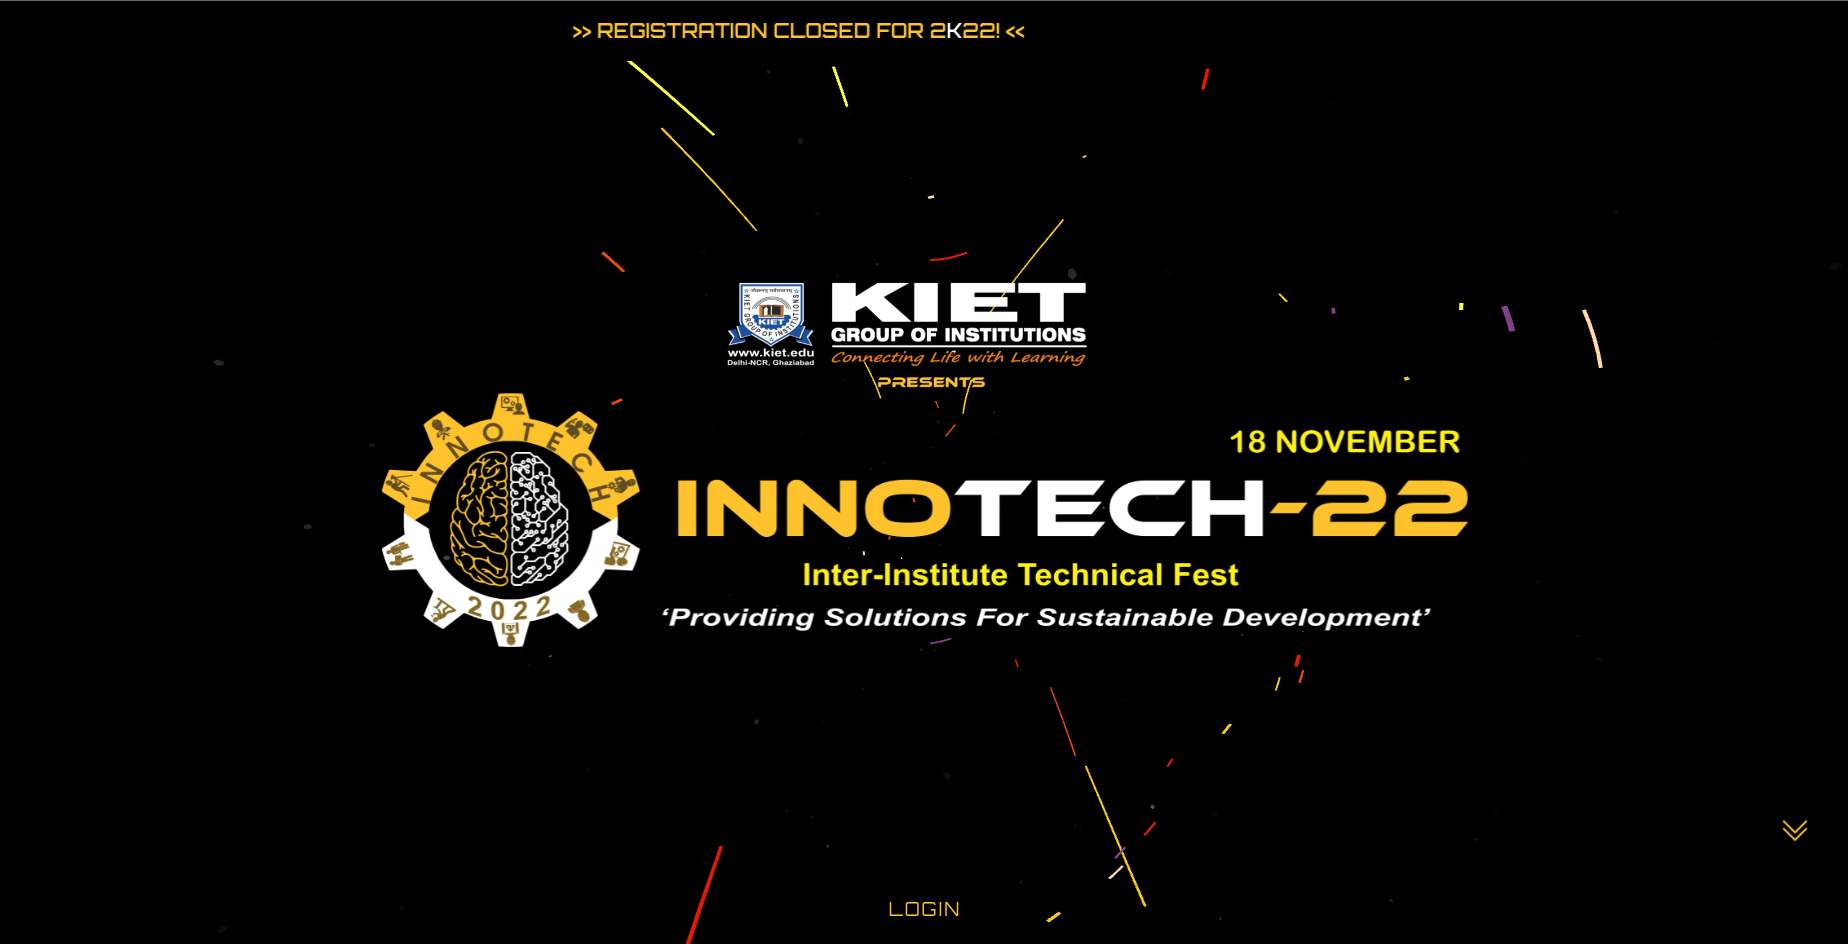
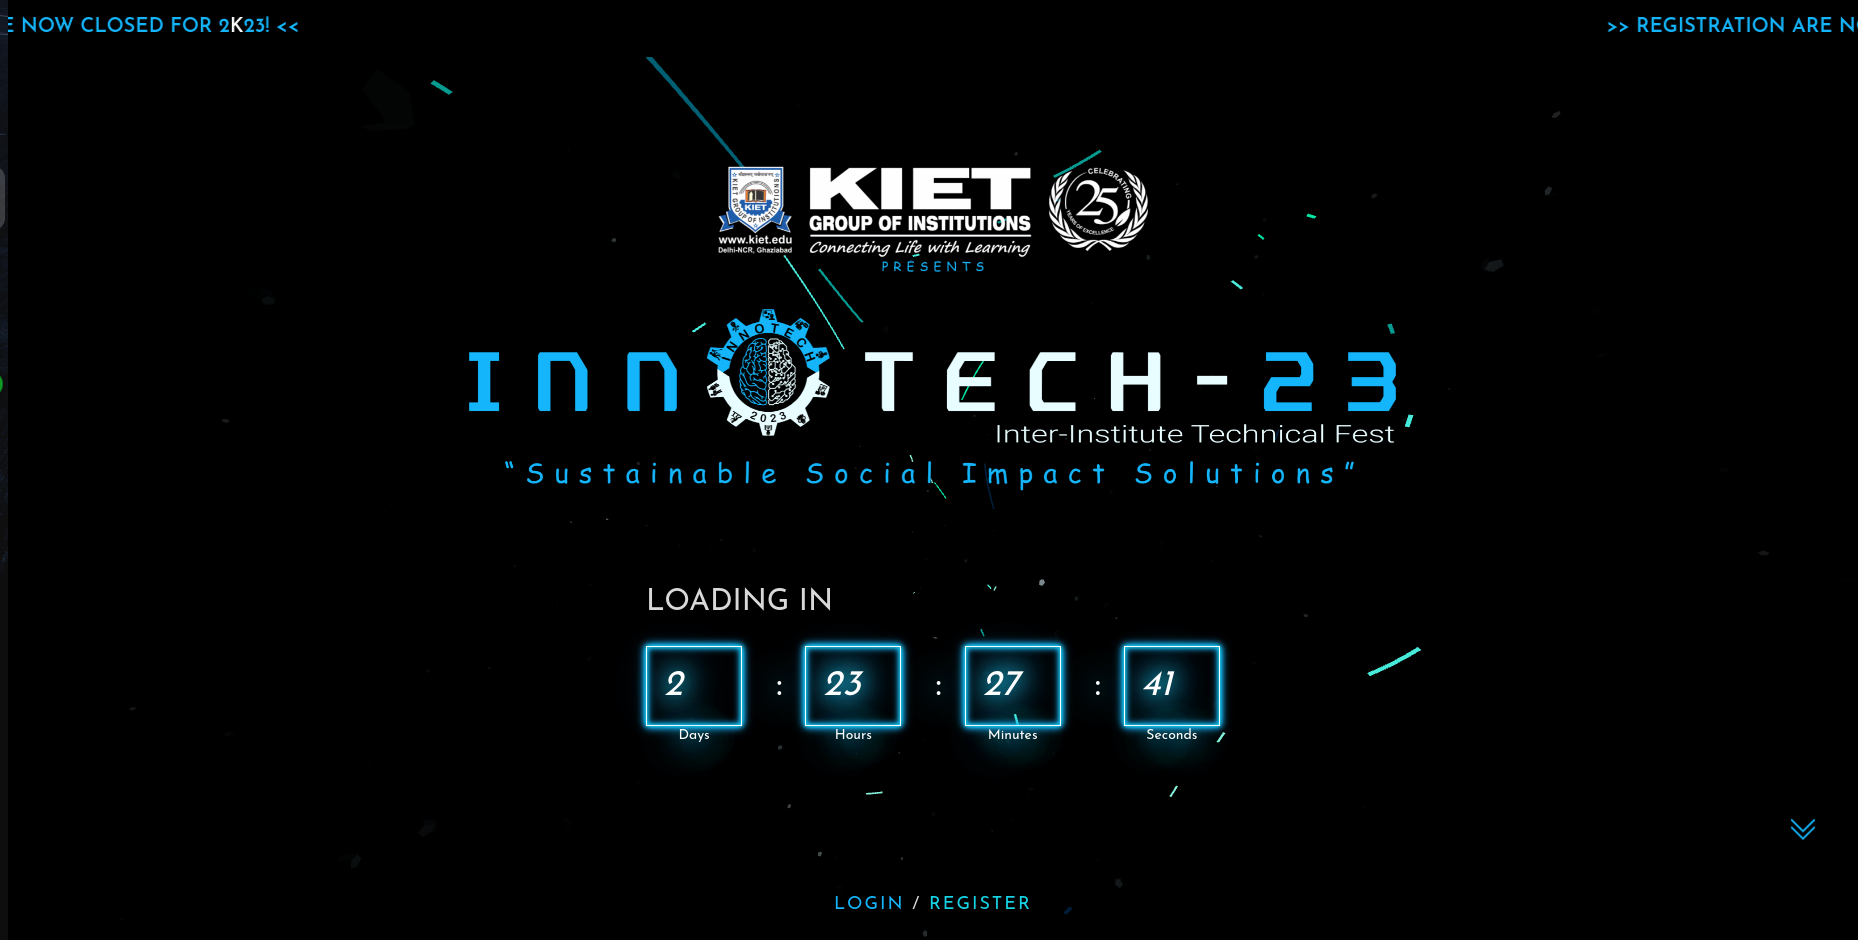
feat: project update

diff --git a/utils/profile.ts b/utils/profile.ts
@@ -173,7 +173,7 @@ const projects: projectsInterface = {
   onlyShow: 3,
   projectContent: [
     {
-      title: "Innotech-2K22",
+      title: "Innotech-2K23",
       image: "/innotech.png",
       url: "https://innotech.kiet.edu/",
       description:
@@ -218,7 +218,7 @@ const projects: projectsInterface = {
       url: "https://thecv.in",
       description:
         "The CV is a digital platform designed to provide users with the tools, resources, and functionalities necessary to create, showcase, and manage their own personalized digital portfolios.",
-      techStack: ["Next Js, Tailwind CSS", "GO", "Mysql"],
+      techStack: ["Next Js","Tailwind CSS", "GO", "Mysql"],
     },
   ],
 };
